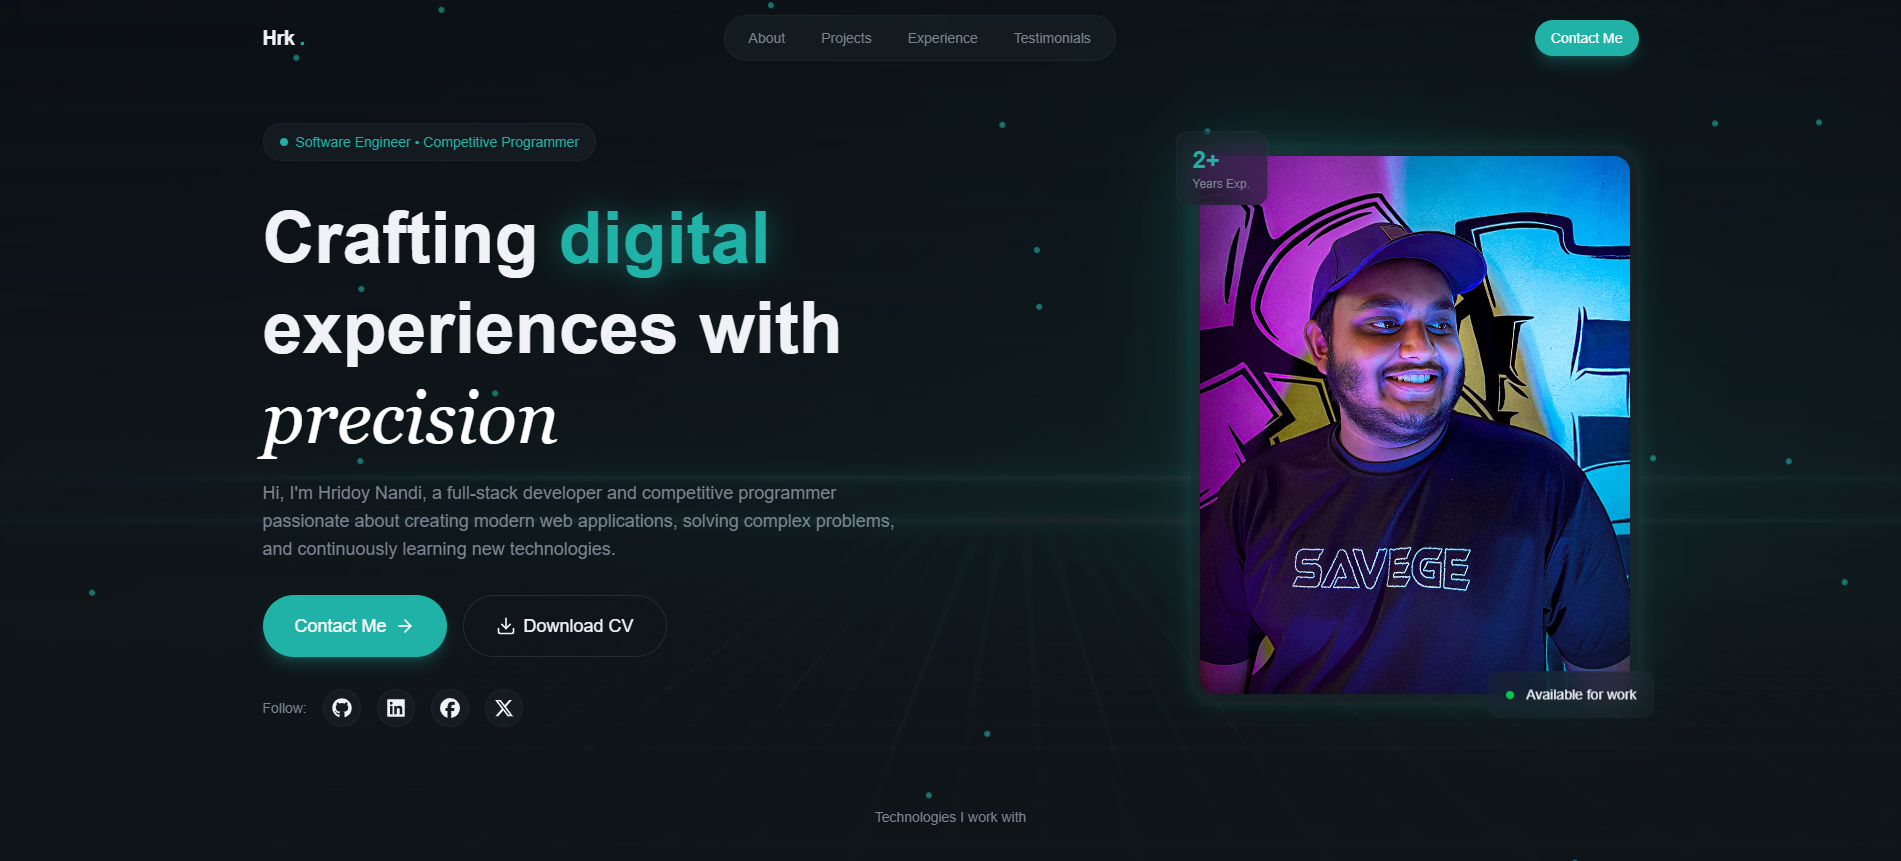
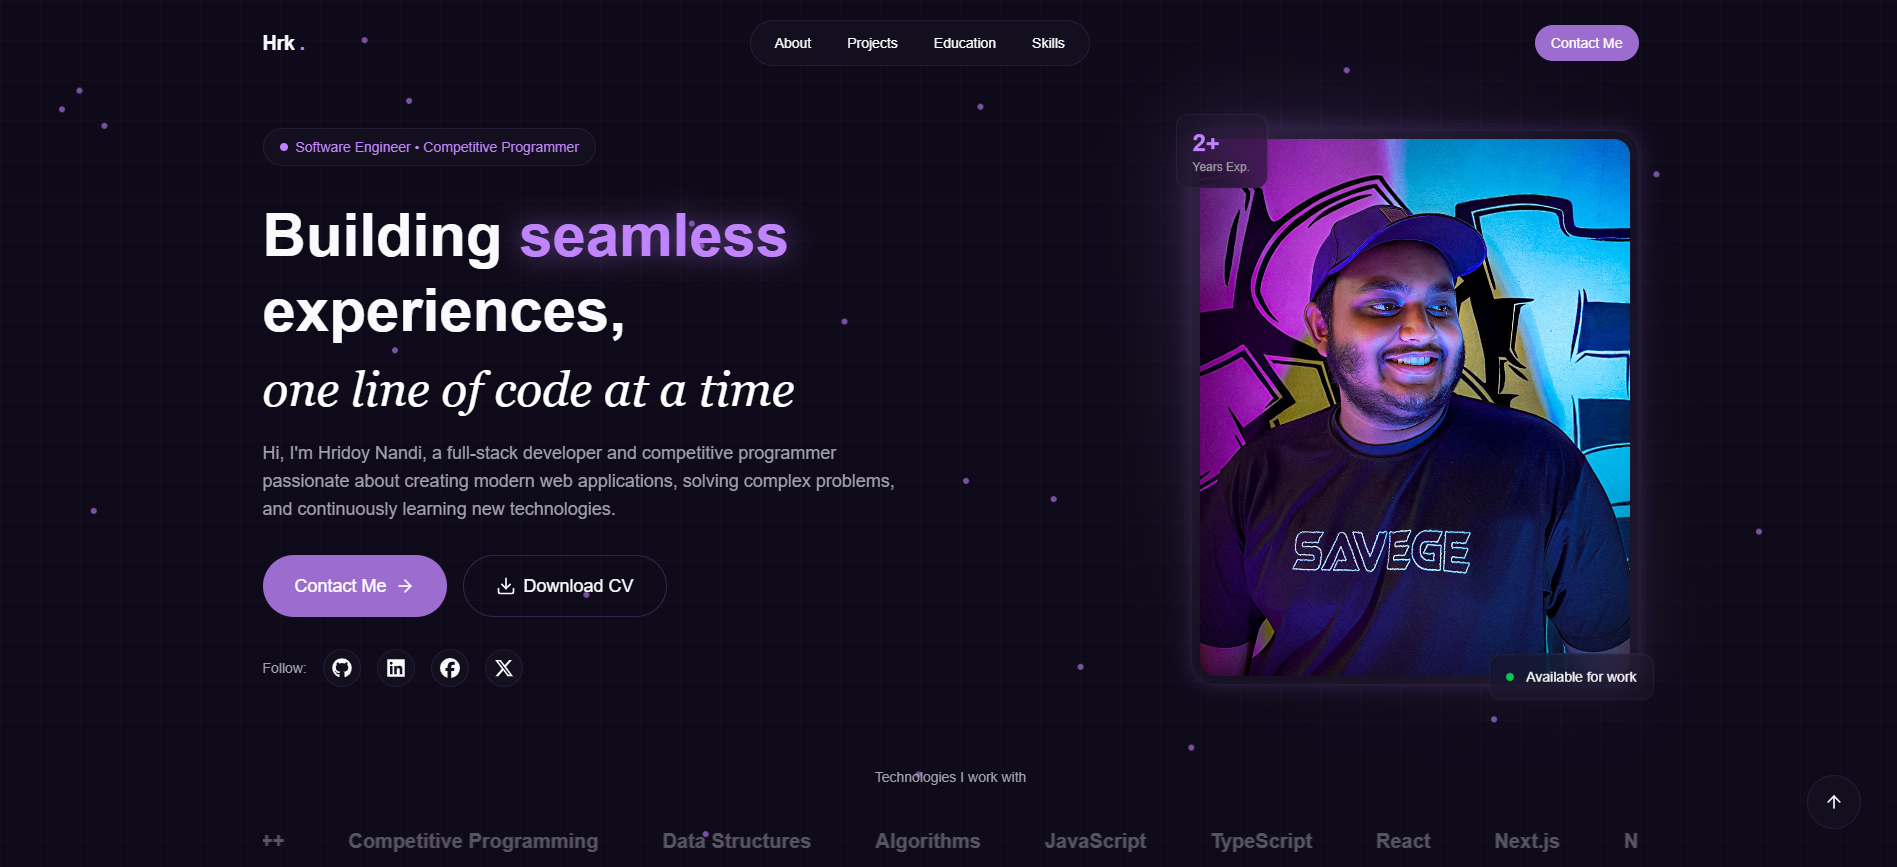
tweaks

diff --git a/src/sections/Hero.jsx b/src/sections/Hero.jsx
@@ -36,18 +36,6 @@ export const Hero = () => {
       id="hero"
       className="relative min-h-screen flex items-center overflow-hidden"
     >
-      {/* Background */}
-      <div className="absolute inset-0">
-        <img
-          src="/hero-bg.jpg"
-          alt="hero-bg"
-          className="w-full h-full object-cover opacity-40"
-        />
-        <div
-          className="absolute inset-0 bg-gradient-to-b from-background/20
-            via-background/80 to-background"
-        />
-      </div>
       {/* Green dots */}
       <div className="absolute inset-0 overflow-hidden pointer-events-none">
         {[...Array(30)].map((_, i) => (
@@ -55,7 +43,7 @@ export const Hero = () => {
             key={i}
             className="absolute w-1.5 h-1.5 rounded-full opacity-60"
             style={{
-              backgroundColor: "#20B2A6",
+              backgroundColor: "#C084FC",
               left: `${Math.random() * 100}%`,
               top: `${Math.random() * 100}%`,
               animation: `slow-drift ${15 + Math.random() * 20}s ease-in-out infinite`,
@@ -81,7 +69,7 @@ export const Hero = () => {
             </div>
             {/* Headline */}
             <div className="space-y-4">
-              <h1 className="text-4xl lg:text-5xl lg:text-6xl font-bold leading-tight animate-fade-in animation-delay-100">
+              <h1 className="text-4xl lg:text-6xl font-bold leading-tight animate-fade-in animation-delay-100">
                 Building{" "}
                 <span className="text-primary glow-text">seamless</span>
                 <br />

diff --git a/src/App.jsx b/src/App.jsx
@@ -33,6 +33,11 @@ function App() {
   }, []);
   return (
     <div className="relative min-h-screen overflow-x-hidden">
+      {/* Background*/}
+      <div className="fixed inset-0 -z-10">
+        <div className="absolute inset-0 bg-grid opacity-20" />
+        <div className="absolute inset-0 bg-gradient-to-b from-transparent via-background/20 to-background" />
+      </div>
       <div
         onClick={() => {
           document.getElementById("hero")?.scrollIntoView({
@@ -43,7 +48,7 @@ function App() {
       >
         <ArrowUp className="w-5 h-5" />
       </div>
-      <Navbar activeSection={activeSection}/>
+      <Navbar activeSection={activeSection} />
       <main>
         <Hero />
         <About />

diff --git a/src/sections/Footer.jsx b/src/sections/Footer.jsx
@@ -6,7 +6,7 @@ import {
 } from "react-icons/fa6";
 export const Footer = () => {
   return (
-    <section id="footer" className="py-15 lg:mb-10 relative overflow-hidden">
+    <section id="footer" className="py-15 lg:mb-10 relative overflow-hidden bg-background">
       <div className="container mx-auto px-6 lg:px-20 relative z-10">
         <div className="grid lg:grid-cols-2 border-t border-surface gap-1">
           <div className="text-[10px] lg:text-sm text-foreground/80 tracking-wide flex items-center place-self-center lg:place-self-start mt-5">

diff --git a/index.html b/index.html
@@ -9,7 +9,7 @@
     <meta name="apple-mobile-web-app-title" content="Hrk-Portfolio" />
     <link rel="manifest" href="/site.webmanifest" />
     <meta name="viewport" content="width=device-width, initial-scale=1.0" />
-    <title>Hrk-Portfolio</title>
+    <title>Hridoy Nandi - Full Stack Developer</title>
   </head>
   <body>
     <div id="root"></div>

diff --git a/src/index.css b/src/index.css
@@ -179,3 +179,10 @@
     black 100%
   );
 }
+
+.bg-grid {
+  background-image:
+    linear-gradient(rgba(255,255,255,0.08) 1px, transparent 1px),
+    linear-gradient(90deg, rgba(255,255,255,0.08) 1px, transparent 1px);
+  background-size: 40px 40px;
+}
